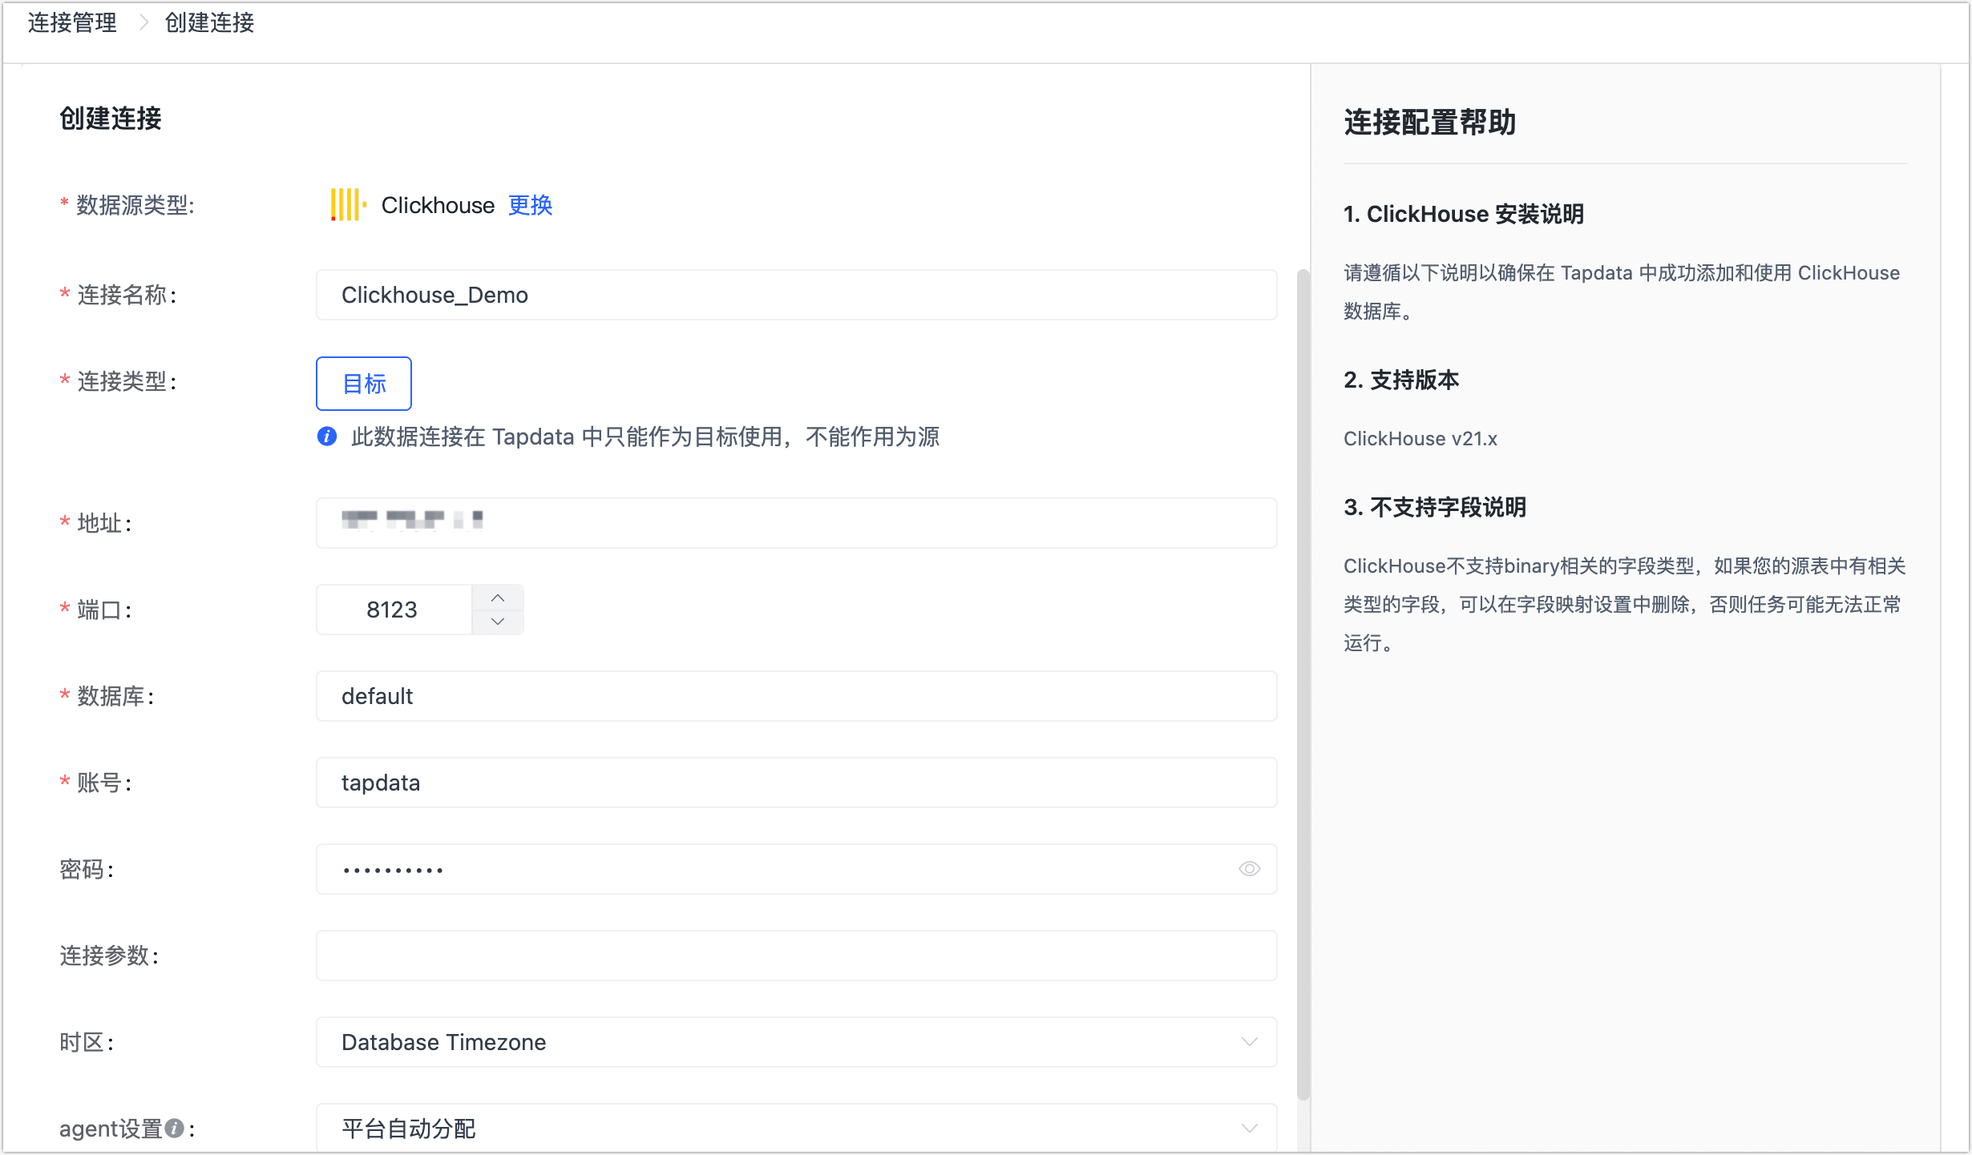
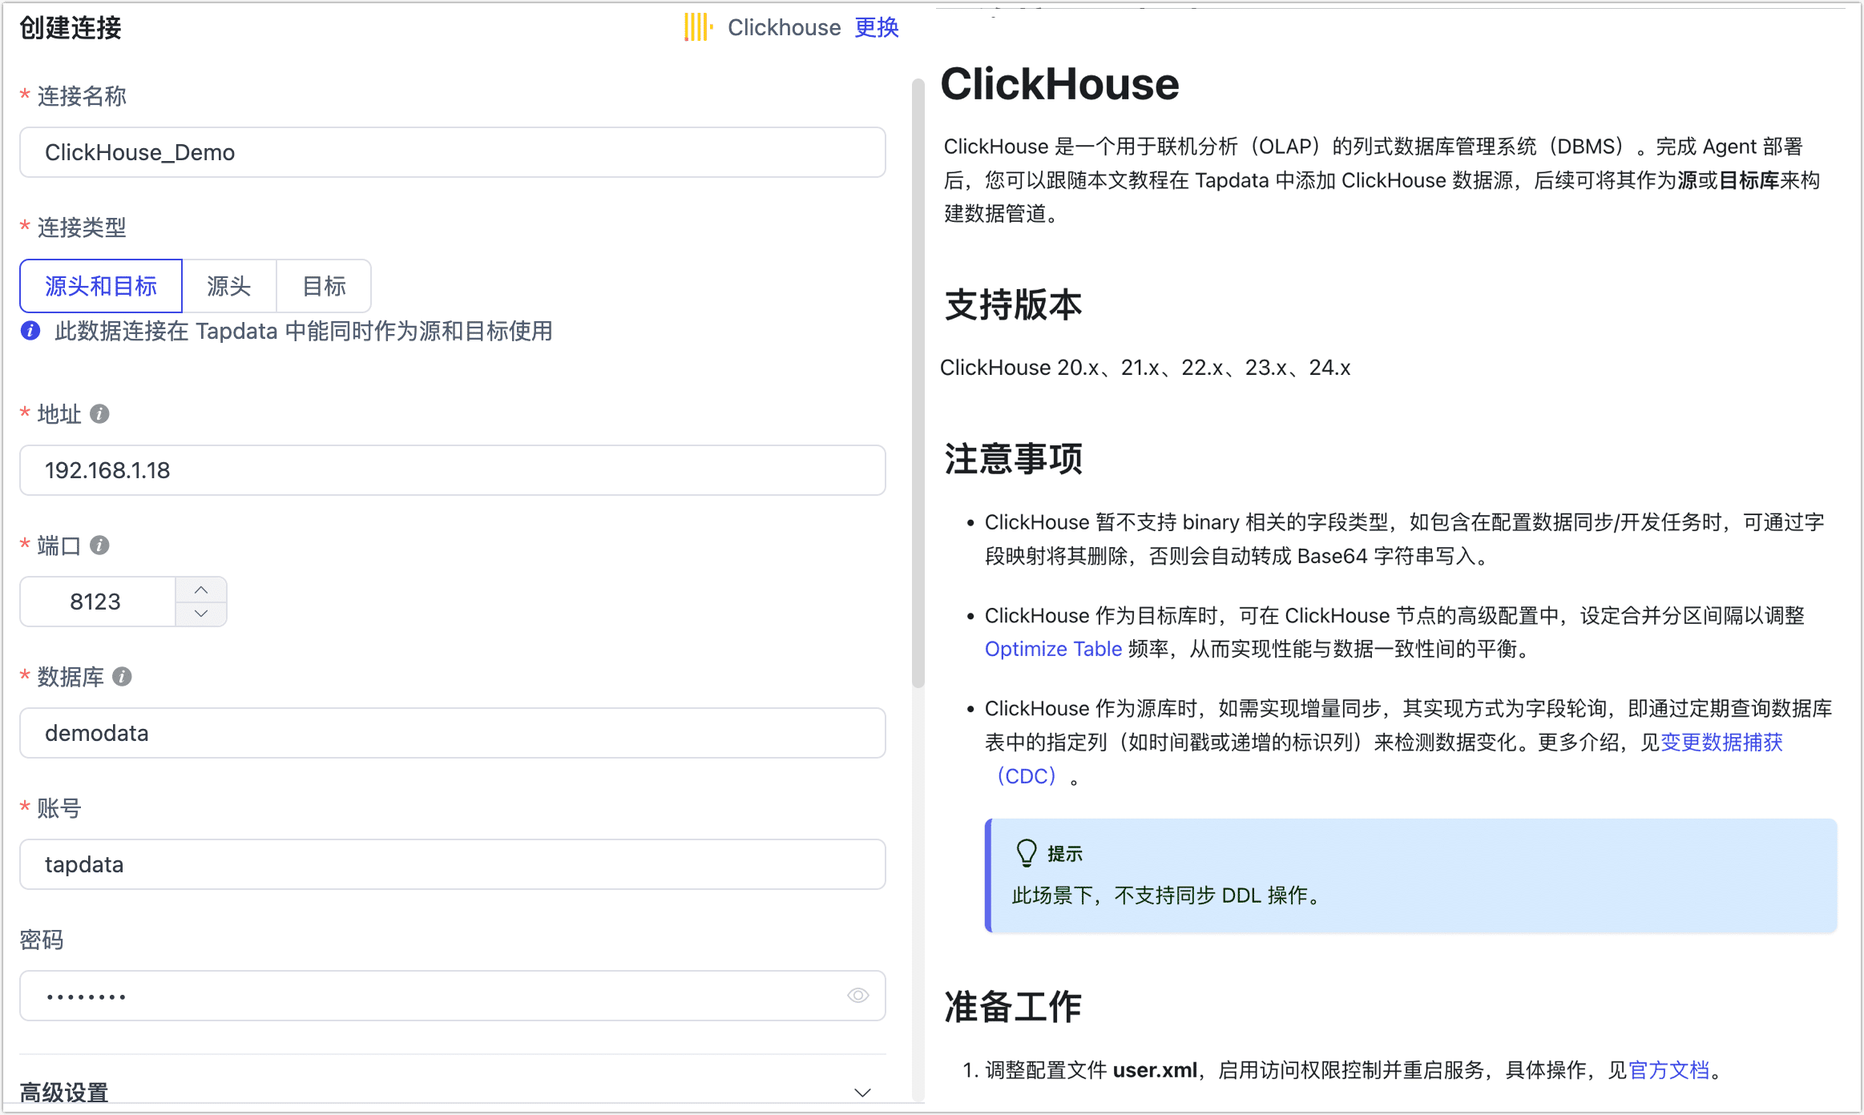
Part 7

diff --git a/docs/prerequisites/on-prem-databases/tidb.md b/docs/prerequisites/on-prem-databases/tidb.md
@@ -1,22 +1,25 @@
 # TiDB
-
-
-TiDB 是 PingCAP 设计、研发的开源分布式关系型数据库，是一款同时支持在线事务处理与在线分析处理的融合型分布式数据库产品。完成 Agent 部署后，您可以跟随本文教程在 TapData 中添加 TiDB 数据源，后续可将其作为源或目标库来构建数据管道。
+TiDB 是 PingCAP 设计、研发的开源分布式关系型数据库，是一款同时支持在线事务处理与在线分析处理的融合型分布式数据库产品。完成 Agent 部署后，您可以跟随本文教程在 TapData 中添加 TiDB 数据源，后续可将其作为**源**或**目标库**来构建数据管道。
 
 ```mdx-code-block
 import Tabs from '@theme/Tabs';
 import TabItem from '@theme/TabItem';
 ```
 
-:::tip
-
-为进一步简化使用流程，TapData 的 TiDB 连接器集成了 TiCDC，可基于数据变更日志解析为有序的行级变更数据。更多原理及概念介绍，见 [TiCDC 概述](https://docs.pingcap.com/zh/tidb/stable/ticdc-overview)。
-
-:::
-
 ## 支持版本
 
-TiDB 6.0.0 及以上
+* **全量数据同步**：所有版本
+* **增量数据同步**：6.0.0 ～ 8.1.9
+
+## 支持数据类型
+
+* **全量数据同步**：BIGINT、BIGINT UNSIGNED、BINARY、BIT、BLOB、BOOLEAN、CHAR、DATE、DATETIME、DECIMAL、DECIMAL UNSIGNED、DOUBLE、DOUBLE UNSIGNED、ENUM、FLOAT、INT、INT UNSIGNED、INTEGER、JSON、LONGBLOB、LONGTEXT、MEDIUMBLOB、MEDIUMINT、MEDIUMINT UNSIGNED、MEDIUMTEXT、SET、SMALLINT、SMALLINT UNSIGNED、TEXT、TIME、TIMESTAMP、TINYBLOB、TINYINT、TINYINT UNSIGNED、TINYTEXT、VARBINARY、VARCHAR、YEAR
+* **增量数据同步**：BIGINT、BIGINT UNSIGNED、BINARY、BIT、BLOB、BOOLEAN、CHAR、CLOB、DATE、DATETIME、DECIMAL、DOUBLE、ENUM、FLOAT、INT、INT UNSIGNED、INTEGER、JSON、LONGBLOB、LONGTEXT、MEDIUMBLOB、MEDIUMINT、MEDIUMINT UNSIGNED、MEDIUMTEXT、REAL、SET、SMALLINT、SMALLINT UNSIGNED、TEXT、TIME、TIMESTAMP、TINYBLOB、TINYINT、TINYINT UNSIGNED、TINYTEXT、VARBINARY、VARCHAR、YEAR
+
+## 支持同步的操作
+
+- **DML**：INSERT、UPDATE、DELETE
+- **DDL**：ADD COLUMN、CHANGE COLUMN、DROP COLUMN
 
 ## 注意事项
 
@@ -28,11 +31,13 @@ TiDB 6.0.0 及以上
 
   * 为避免 TiCDC 的垃圾回收影响事务或增量数据信息提取，推荐执行命令 `SET GLOBAL tidb_gc_life_time= '24h'` 将其设置为 24 小时。
 
+  * TapData 引擎需要部署运行在 **arm 或 amd** 系统架构下。
+  
   * 由于 TiDB 组件间通信限制，当采用 Tapdata Cloud 产品时，部署的 Agent 需为[半托管实例](../../faq/agent-installation#semi-and-full-agent)。
 
+## 增量同步原理
 
-
-
+为进一步简化使用流程，TapData 的 TiDB 连接器集成了 [TiFlow 组件](https://github.com/pingcap/tiflow)（8.1.0 版本），可基于数据变更日志解析为有序的行级变更数据。更多原理及概念介绍，见 [TiCDC 概述](https://docs.pingcap.com/zh/tidb/stable/ticdc-overview)。
 
 ## <span id="prerequisite">准备工作</span>
 
@@ -70,10 +75,10 @@ GRANT SELECT ON *.* TO 'username' IDENTIFIED BY 'password';
 
 ```sql
 -- 授予指定库权限
-GRANT SELECT, INSERT, UPDATE, DELETE, ALTER, CREATE, CREATE ROUTINE, CREATE TEMPORARY TABLES, DROP ON database_name.* TO 'username';
+GRANT SELECT, INSERT, UPDATE, DELETE, ALTER, CREATE, DROP ON database_name.* TO 'username';
 
 -- 授予所有库权限
-GRANT SELECT, INSERT, UPDATE, DELETE, ALTER, CREATE, CREATE ROUTINE, CREATE TEMPORARY TABLES, DROP ON *.* TO 'username';
+GRANT SELECT, INSERT, UPDATE, DELETE, ALTER, CREATE, DROP ON *.* TO 'username';
 ```
 </TabItem>
 </Tabs>
@@ -84,7 +89,7 @@ GRANT SELECT, INSERT, UPDATE, DELETE, ALTER, CREATE, CREATE ROUTINE, CREATE TEMP
 
 
 ## 添加数据源
-1. 登录 Tapdata 平台。
+1. 登录 TapData 平台。
 
 2. 在左侧导航栏，单击**连接管理**。
 
@@ -99,11 +104,12 @@ GRANT SELECT, INSERT, UPDATE, DELETE, ALTER, CREATE, CREATE ROUTINE, CREATE TEMP
    * **连接信息设置**
       * **连接名称**：填写具有业务意义的独有名称。
       * **连接类型**：支持将 TiDB 数据库作为源或目标。
-      * **PD Server 地址**：填写 PDServer 的连接地址和端口，默认端口号为 **2379**，本参数仅在作为源库时需填写。
+      * **PD Server 地址**：填写 PDServer 的连接地址和端口，默认端口号为 **2379**，本参数仅在作为源库且需要增量数据同步时填写。
       * **数据库地址**：数据库连接地址。
       * **端口**：数据库的服务端口，默认为 **4000**。
-      * **数据库名称**：数据库名称，即一个连接对应一个数据库，如有多个数据库则需创建多个数据连接。
+      * **数据库名称**：数据库名称（区分大小写），即一个连接对应一个数据库，如有多个数据库则需创建多个数据连接。
       * **账号**、**密码**：数据库的账号和密码，账号的创建和授权方法，见[准备工作](#prerequisite)。
+      * **TiKV 端口**：作为 TiDB 的存储层，提供了数据持久化、读写服务和统计信息数据记录功能，默认端口为 **20160**， 本参数仅在作为源库且需要增量数据同步时填写。
       
    * **高级设置**
       * **其他连接串参数**：额外的连接参数，默认为空。
@@ -111,7 +117,7 @@ GRANT SELECT, INSERT, UPDATE, DELETE, ALTER, CREATE, CREATE ROUTINE, CREATE TEMP
       * **共享挖掘**：挖掘源库的增量日志，可为多个任务共享源库的增量日志，避免重复读取，从而最大程度上减轻增量同步对源库的压力，开启该功能后还需要选择一个外存用来存储增量日志信息，本参数仅在作为源库时需填写。
       * **包含表**：默认为**全部**，您也可以选择自定义并填写包含的表，多个表之间用英文逗号（,）分隔。
       * **排除表**：打开该开关后，可以设定要排除的表，多个表之间用英文逗号（,）分隔。
-      * **agent 设置**：默认为**平台自动分配**，您也可以手动指定。
+      * **Agent 设置**：默认为**平台自动分配**，您也可以手动指定。
       * **模型加载时间**：当数据源中模型数量小于 10,000 时，每小时刷新一次模型信息；如果模型数据超过 10,000，则每天按照您指定的时间刷新模型信息。
       * **开启心跳表**：当连接类型选择为**源头和目标**、**源头**时，支持打开该开关，由 Tapdata 在源库中创建一个名为 **_tapdata_heartbeat_table** 的心跳表并每隔 10 秒更新一次其中的数据（数据库账号需具备相关权限），用于数据源连接与任务的健康度监测。
       
@@ -125,5 +131,36 @@ GRANT SELECT, INSERT, UPDATE, DELETE, ALTER, CREATE, CREATE ROUTINE, CREATE TEMP
 
    :::
 
+  
 
+## 常见问题
 
+* 问：数据同步需要保障哪些端口的通信？
+
+  答：全量同步需要保障 TiDB 集群的 4000 端口与 TapData 间的通信，如需增量数据同步，还需要开放下述端口：
+
+  * **2379** 端口：用于 PD 与 TiKV、TiDB 之间的通信以及对外提供 API 接口。TiKV 和 TiDB 会通过这个端口从 PD 获取集群的配置信息和调度命令。
+
+  - **20160** 端口：用于 TiKV 对外提供存储服务，包括处理 TiDB 的 SQL 请求、读写数据以及和其他 TiKV 节点之间的内部通信（如 Raft 协议的消息）。
+
+* 问：TapData 对 TiDB 的部署架构有要求吗？
+
+  答：TiDB 的单机或集群部署架构均可得到支持。
+
+* 问：如果我的 TiDB 版本不在 6.0.0 ～ 8.1.9 范围内，需要执行增量数据同步，应该怎么办？
+
+  答：TapData 的 TiDB 连接器集成了 TiCDC，可基于数据变更日志解析为有序的行级变更数据。如果您的数据库在支持版本以外，您可以前往 [Github: tiflow](https://github.com/pingcap/tiflow/releases) 下载支持对应版本的 Tiflow 组件，然后跟随下述步骤自行编译 cdc 工具：
+
+  :::warning
+
+  扩展其他版本的 Tiflow 组件可能带来不确定因素或影响正在运行的任务，请谨慎操作。
+
+  :::
+
+  1. 将下载后的文件解压，然后进入解压后的目录执行 `make` 命令进行编译。
+
+  2. 找到生成的 **cdc** 二进制文件，将其放置在 TapData 引擎所属机器的 **{tapData-dir}/run-resource/ti-db/tool** 目录下（如有则替换）。
+
+  3. 通过 chmod 命令，为该目录下的文件授予可读可写可执行权限。
+
+     

diff --git a/docs/prerequisites/warehouses-and-lake/clickhouse.md b/docs/prerequisites/warehouses-and-lake/clickhouse.md
@@ -1,15 +1,26 @@
 # ClickHouse
+ClickHouse 是一个用于联机分析（OLAP）的列式数据库管理系统（DBMS）。本文介绍如何在 TapData 中添加 ClickHouse 数据源，后续可将其作为**源**或**目标库**来构建数据管道。
 
-
-ClickHouse 是一个用于联机分析（OLAP）的列式数据库管理系统（DBMS）。完成 Agent 部署后，您可以跟随本文教程在 Tapdata 中添加 ClickHouse 数据源，后续可将其作为目标库来构建数据管道。
+```mdx-code-block
+import Tabs from '@theme/Tabs';
+import TabItem from '@theme/TabItem';
+```
 
 ## 支持版本
 
-ClickHouse v21.x
+ClickHouse 20.x、21.x、22.x、23.x、24.x
 
 ## 注意事项
 
-暂不支持 binary 相关的字段类型，如包含在配置数据同步/开发任务时，通过字段映射将其删除。
+- ClickHouse 暂不支持 binary 相关的字段类型，如包含在配置数据同步/开发任务时，可通过字段映射将其删除，否则会自动转成 Base64 字符串写入。
+- ClickHouse 作为目标库时，可在 ClickHouse 节点的高级配置中，设定合并分区间隔以调整 [Optimize Table](https://clickhouse.com/docs/en/sql-reference/statements/optimize) 频率，从而实现性能与数据一致性间的平衡。
+- ClickHouse 作为源库时，如需实现增量同步，其实现方式为字段轮询，即通过定期查询数据库表中的指定列（如时间戳或递增的标识列）来检测数据变化。
+
+  :::tip
+
+  此场景下，不支持同步 DDL 操作。
+
+  :::
 
 ## 准备工作
 
@@ -35,14 +46,28 @@ ClickHouse v21.x
    示例：创建一个名为 **tapdata** 的账号，采用 sha256_password 密码保护机制，允许其从任意主机登录。
 
    ```sql
-   CREATE USER tapdata HOST ANY IDENTIFIED WITH sha256_password BY 'Tap@123456';
+   CREATE USER tapdata HOST ANY IDENTIFIED WITH sha256_password BY 'your_password';
    ```
 
 3. 为刚创建的账号授予权限，简易示例如下，您还可以基于业务需求设置更精细化的权限控制。更多介绍，见[授权语法](https://clickhouse.com/docs/zh/sql-reference/statements/grant/)。
 
-   ```sql
-   GRANT SELECT, INSERT, CREATE TABLE, ALTER TABLE, ALTER UPDATE, DROP TABLE, TRUNCATE ON database_name.* TO username
-   ```
+```mdx-code-block
+<Tabs className="unique-tabs">
+<TabItem value="作为源库">
+```
+```sql
+GRANT SELECT ON database_name.* to username 
+```
+</TabItem>
+
+<TabItem value="作为目标库">
+
+```sql
+GRANT SELECT, INSERT, CREATE TABLE, ALTER TABLE, ALTER UPDATE, DROP TABLE, TRUNCATE ON database_name.* TO username
+```
+</TabItem>
+</Tabs>
+
 
    * **database_name**：要授予权限的数据库名称。
    * **usernmae**：用户名。
@@ -68,11 +93,12 @@ ClickHouse v21.x
       * **端口**：数据库的 HTTP API 服务端口，默认为 **8123**，如开启了 SSL 加密，默认端口为 8443，更多介绍，见[网络端口说明](https://clickhouse.com/docs/en/guides/sre/network-ports/)。
       * **数据库名称**：数据库名称，即一个连接对应一个数据库，如有多个数据库则需创建多个数据连接。
       * **账号**、**密码**：数据库的账号和密码。
-      * **其他连接串参数**：额外的连接参数，默认为空。
    * 高级设置
+      * **连接参数**：额外的连接参数，默认为空。
       * **时区**：默认为数据库所用的时区，您也可以根据业务需求手动指定。
-      * **agent 设置**：默认为**平台自动分配**，您也可以手动指定。
-      * **模型加载频率**：数据源中模型数量大于 1 万时，Tapdata 将按照本参数的设定定期刷新模型。
+      * **Agent 设置**：默认为**平台自动分配**，您也可以手动指定。
+      * **模型加载时间**：当数据源中模型数量小于 10,000 时，每小时刷新一次模型信息；如果模型数据超过 10,000，则每天按照您指定的时间刷新模型信息。
+      * **开启心跳表**：当连接类型选择为**源头和目标**、**源头**时，支持打开该开关，由 Tapdata 在源库中创建一个名为 **_tapdata_heartbeat_table** 的心跳表并每隔 10 秒更新一次其中的数据（数据库账号需具备相关权限），用于数据源连接与任务的健康度监测。
 
 6. 单击**连接测试**，测试通过后单击**保存**。
 
@@ -81,4 +107,3 @@ ClickHouse v21.x
    如提示连接测试失败，请根据页面提示进行修复。
 
    :::
-

diff --git a/docs/prerequisites/on-prem-databases/sqlserver.md b/docs/prerequisites/on-prem-databases/sqlserver.md
@@ -1,6 +1,4 @@
 # SQL Server
-
-
 SQL Server 数据库是 Microsoft 开发设计的一个关系数据库智能管理系统（RDBMS）。完成 Agent 部署后，您可以跟随本文教程在 TapData 中添加 SQL Server 数据源，后续可将其作为源或目标库来构建数据管道。
 
 
@@ -17,6 +15,39 @@ SQL Server 2005、2008、2008 R2、2012、2014、2016、2017、2019、2022
 <details>
 <summary>SQL Server 2005 作为源库解决方案</summary>
 由于 CDC 支持从 SQLServer 2008 开始支持，对于较早的版本，您需要使用 Custom SQL 功能来模拟更改数据捕获，在从旧版本复制数据时，源表必须有一个更改跟踪列，比如 <b>LAST_UPDATED_TIME</b>，它在每次插入或更新记录时都会更新；随后在创建数据复制任务时，任务的同步类型选择为<b>全量</b>，将<b>重复运行自定义 SQL</b>设置为 <b>True</b>，同时在映射设计上提供适当的自定义 SQL。
+
+</details>
+
+## 注意事项
+
+SQL Server 作为源库时，如果对增量同步表的字段执行了 DDL 操作（如增加字段），您需要执行下述操作重启变更数据捕获，否则可能出现数据无法同步或报错等情况。
+
+<details>
+<summary>重启对应表的变更数据捕获</summary>
+
+```sql
+--关闭该表的变更数据捕获
+  go
+  EXEC sys.sp_cdc_disable_table
+  @source_schema = N'[Schema]',
+  @source_name = N'[Table]',
+  @capture_instance = N'[Schema_Table]'
+  go
+  // capture_instance一般为schema_table的格式拼接而成，可以通过以下命令，查询实际的值
+  exec sys.sp_cdc_help_change_data_capture
+  @source_schema = N'[Schema]',
+  @source_name = N'[Table]';
+  
+  
+  --启动该表的变更数据捕获
+  use [数据库名称]
+  go
+  EXEC sys.sp_cdc_enable_table
+  @source_schema = N'[Schema]',
+  @source_name = N'[Table]',
+  @role_name = N'[Role]'
+  go
+```
 
 </details>
 
@@ -187,7 +218,7 @@ SQL Server 2005、2008、2008 R2、2012、2014、2016、2017、2019、2022
 
 ## 添加数据源
 
-1. 登录 Tapdata 平台。
+1. 登录 TapData 平台。
 
 2. 在左侧导航栏，单击**连接管理**。
 
@@ -238,7 +269,7 @@ SQL Server 2005、2008、2008 R2、2012、2014、2016、2017、2019、2022
 
 * 清理变更数据捕获日志
 
-  SQL Server 不会自动变更数据捕获日志，需要进行如下设置开启清理任务。
+  SQL Server 不会自动清理变更数据捕获日志，需要进行如下设置开启清理任务。
 
   ```sql
   --retention 的单位为分钟，本处设定清理周期为2天
@@ -248,32 +279,6 @@ SQL Server 2005、2008、2008 R2、2012、2014、2016、2017、2019、2022
       @job_type = N'cleanup',  
       @retention = 2880;  
   GO 
-  ```
-
-* 如果对增量同步表的字段执行了 DDL 操作（如增加字段），您需要执行下述操作重启变更数据捕获，否则可能出现数据无法同步或报错等情况。
-
-  ```sql
-  --关闭该表的变更数据捕获
-  go
-  EXEC sys.sp_cdc_disable_table
-  @source_schema = N'[Schema]',
-  @source_name = N'[Table]',
-  @capture_instance = N'[Schema_Table]'
-  go
-  // capture_instance一般为schema_table的格式拼接而成，可以通过以下命令，查询实际的值
-  exec sys.sp_cdc_help_change_data_capture
-  @source_schema = N'[Schema]',
-  @source_name = N'[Table]';
-  
-  
-  --启动该表的变更数据捕获
-  use [数据库名称]
-  go
-  EXEC sys.sp_cdc_enable_table
-  @source_schema = N'[Schema]',
-  @source_name = N'[Table]',
-  @role_name = N'[Role]'
-  go
   ```
 
   

diff --git a/docs/prerequisites/on-prem-databases/mariadb.md b/docs/prerequisites/on-prem-databases/mariadb.md
@@ -26,7 +26,7 @@ MariaDB 10.x
    * **username**：用户名。
    * **password**：密码。
    * **host**：允许该账号登录的主机，百分号（%）表示允许任意主机。
-     示例：创建一个名为 tapdata 的账号：`CREATE USER 'tapdata'@'%' IDENTIFIED BY 'Tap@123456';`
+     示例：创建一个名为 tapdata 的账号：`CREATE USER 'tapdata'@'%' IDENTIFIED BY 'your_password';`
    
 2. 为刚创建的账号授予权限，简易示例如下，推荐基于业务需求设置更精细化的权限控制。
 
@@ -111,7 +111,7 @@ GRANT SELECT ON *.* TO 'username' IDENTIFIED BY 'password';
    * **username**：用户名。
    * **password**：密码。
    * **host**：允许该账号登录的主机，百分号（%）表示允许任意主机。
-     示例：创建一个名为 tapdata 的账号：`CREATE USER 'tapdata'@'%' IDENTIFIED BY 'Tap@123456';`
+     示例：创建一个名为 tapdata 的账号：`CREATE USER 'tapdata'@'%' IDENTIFIED BY 'your_password';`
 
 2. 为刚创建的账号授予权限。
 

diff --git a/docs/prerequisites/supported-databases.md b/docs/prerequisites/supported-databases.md
@@ -10,8 +10,7 @@ TapData 支持丰富的数据源，具体如下：
 
 :::tip
 
-* 如需同步 DDL 操作，您需要在配置任务时为节点开启 DDL 采集和 DDL 应用。
-* TapData Community 仅支持 AWS ClickHouse、BigQuery、ClickHouse、Doris、Dummy、ElasticSearch、Kafka、MariaDB、Mock Source、Mock Target、MongoDB、MongoDB Atlas、MySQL、PostgreSQL、Redis、TDengine 数据源。
+如需同步 DDL 操作，您需要在配置任务时为节点开启 DDL 采集和 DDL 应用。
 
 :::
 
@@ -59,7 +58,7 @@ import TabItem from '@theme/TabItem';
     <td>➖</td>
     <td>✅</td>
     <td>✅</td>
-    <td>21.x</td>
+    <td>20.x、21.x、22.x、23.x、24.x</td>
   </tr>
   <tr>
     <td>Kafka</td>

diff --git a/docs/prerequisites/warehouses-and-lake/databend.md b/docs/prerequisites/warehouses-and-lake/databend.md
@@ -25,7 +25,7 @@ Databend v0.9 及以上
    示例：创建一个名为 tapdata 的账号。
 
    ```sql
-   CREATE USER 'tapdata' IDENTIFIED BY 'Tap@123456';
+   CREATE USER 'tapdata' IDENTIFIED BY 'your_password';
    ```
 
 2. 为刚创建的账号授予指定数据库的所有权限，以便 Tapdata 可自动创建同步的目标表，您也可以基于业务需求设置更精细化的权限控制。更多介绍，见 [GRANT 语法](https://databend.rs/doc/sql-commands/ddl/user/grant-privileges)。

diff --git a/docs/prerequisites/warehouses-and-lake/doris.md b/docs/prerequisites/warehouses-and-lake/doris.md
@@ -35,7 +35,7 @@ Dorix 1.x、2.x
    示例：创建一个名为 tapdata 的账号。
 
    ```sql
-   CREATE USER 'tapdata'@'%' IDENTIFIED BY 'Tap@123456';
+   CREATE USER 'tapdata'@'%' IDENTIFIED BY 'your_password';
    ```
 
 2. 为刚创建的账号授予权限，您也可以基于业务需求设置更精细化的权限控制。
